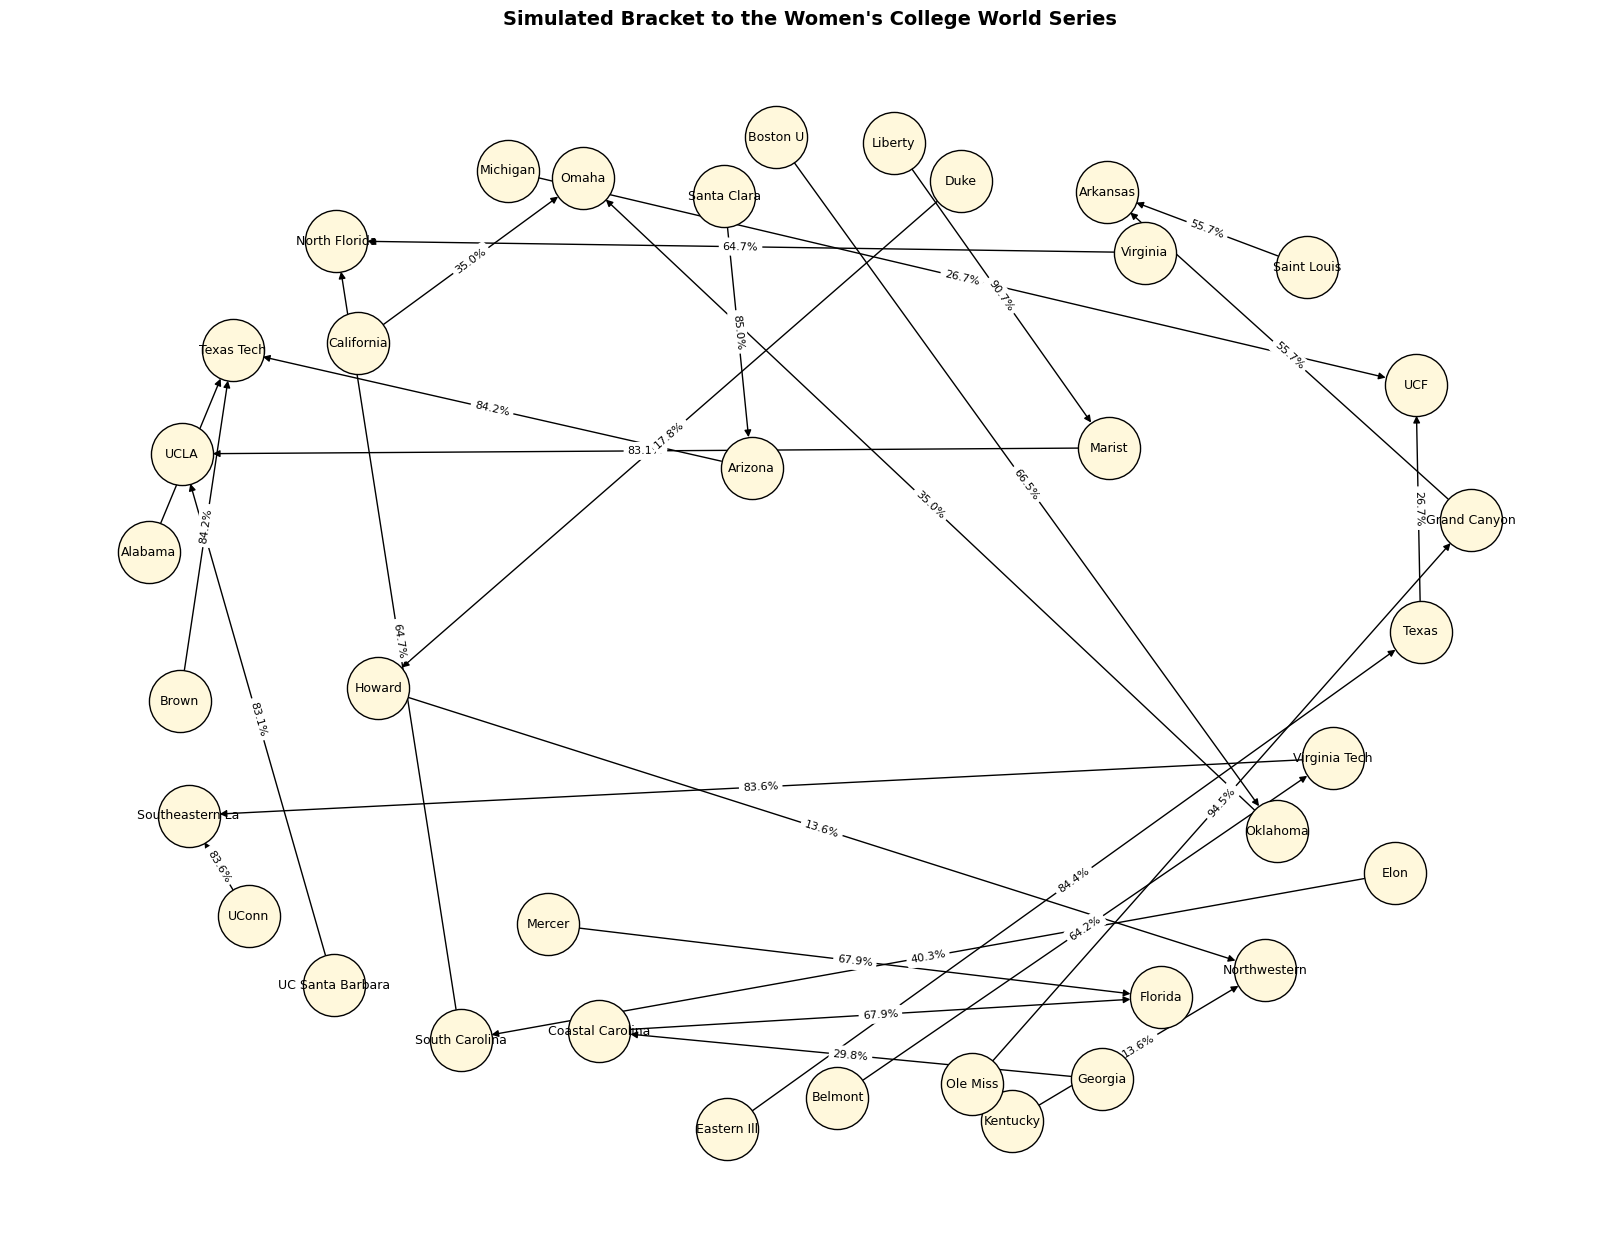
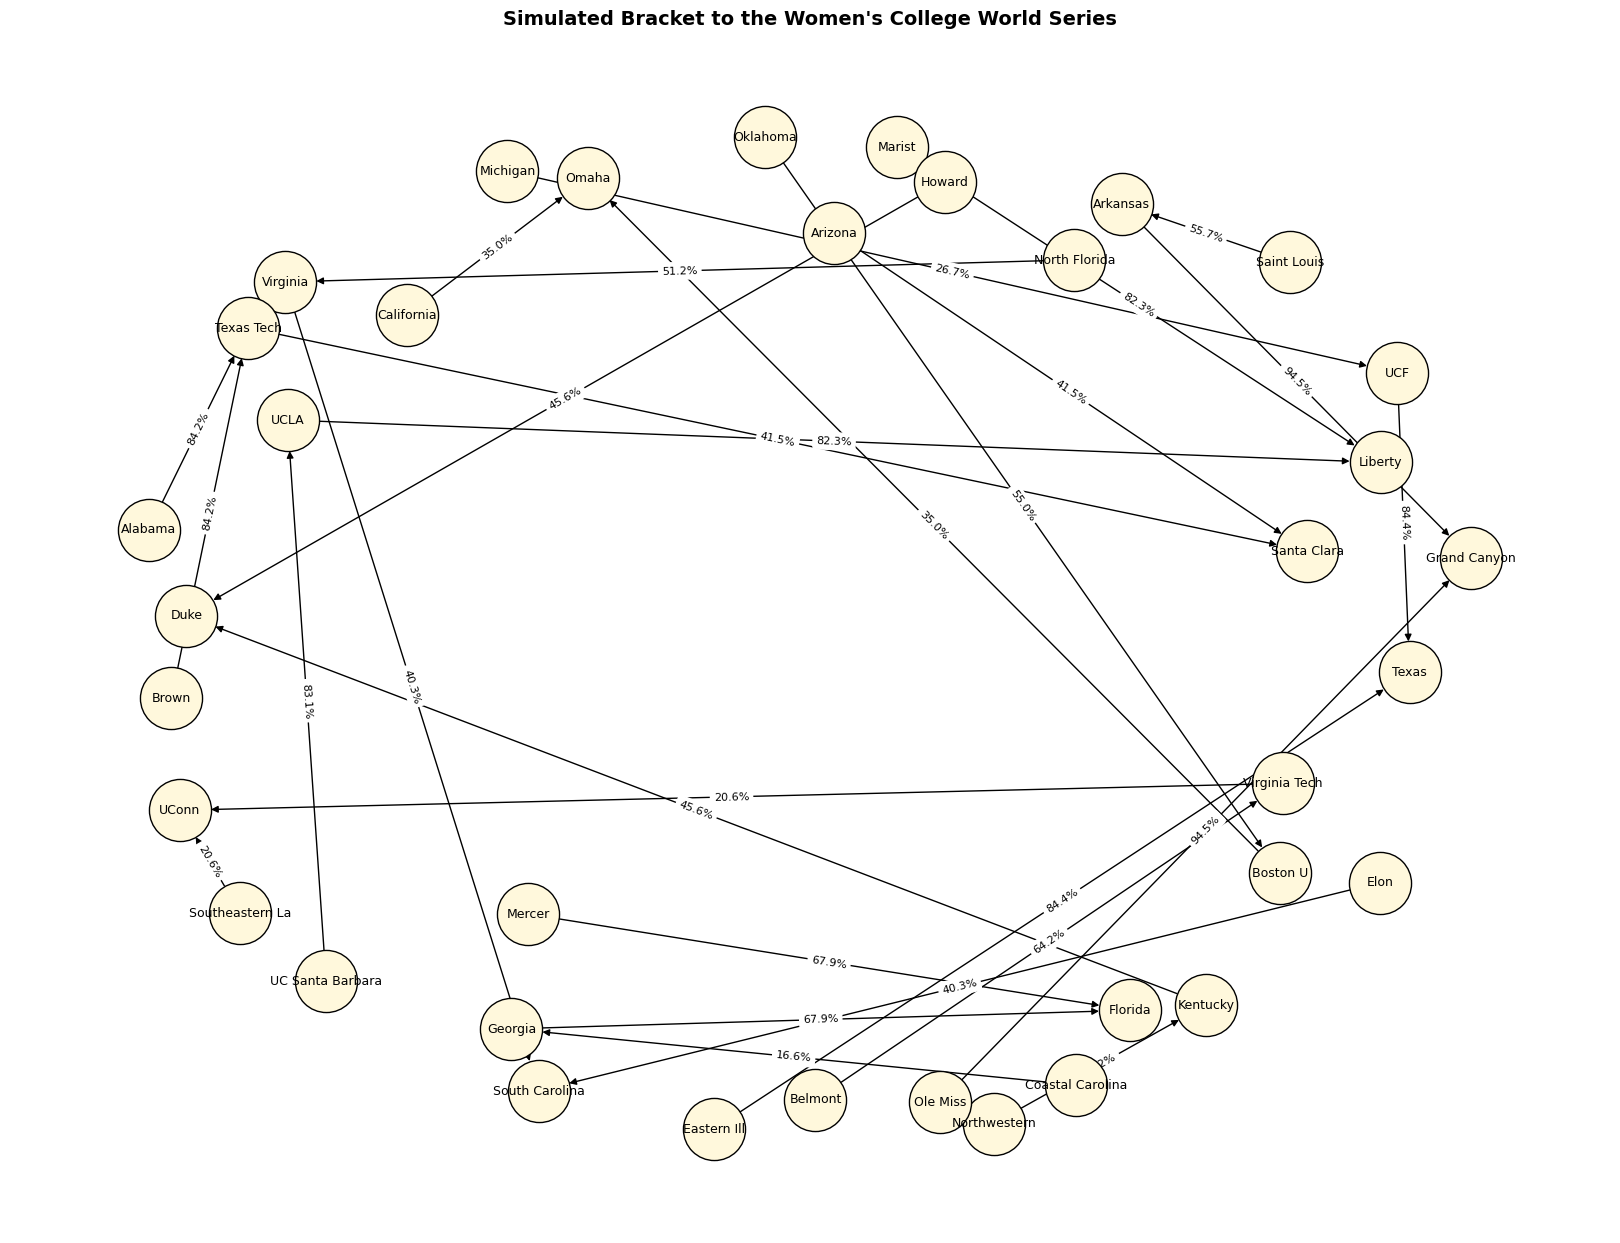
wcws

diff --git a/home/wcws.html b/home/wcws.html
@@ -559,6 +559,78 @@ window.Quarto = {
 </ul></li>
 </ul>
 <p>Now let’s build a <strong>logistic regression model</strong> using both BA and ERA to predict tournament inclusion.</p>
+</section>
+<section id="linear-vs-logistic-regression" class="level3">
+<h3 class="anchored" data-anchor-id="linear-vs-logistic-regression">Linear vs Logistic Regression</h3>
+<table width="100%" border="1" cellspacing="2" cellpadding="3" class="wc">
+<tbody>
+<tr class="wch">
+<td>
+<b>Linear Regression</b>
+</td>
+<td>
+<b>Logistic Regression</b>
+</td>
+</tr>
+<tr>
+<td>
+Used to predict the continuous dependent variable using a given set of independent variables.
+</td>
+<td>
+Used to predict the categorical dependent variable using a given set of independent variables.
+</td>
+</tr>
+<tr>
+<td>
+The outputs produced must be a continuous value, such as price and age.
+</td>
+<td>
+The outputs produced must be Categorical values such as 0 or 1, Yes or No.
+</td>
+</tr>
+<tr>
+<td>
+The relationship between the dependent variable and independent variable must be linear.
+</td>
+<td>
+The relationship DOES NOT need to be linear between the dependent and independent variables.
+</td>
+</tr>
+<tr>
+<td>
+Used for solving Regression problems.
+</td>
+<td>
+Used for solving Classification problems.
+</td>
+</tr>
+<tr>
+<td>
+We are finding and using the line of best fit to help us easily predict outputs.
+</td>
+<td>
+We are using the S-curve (Sigmoid) to help us classify predicted outputs.
+</td>
+</tr>
+<tr>
+<td>
+Least square estimation method is used for the estimation of accuracy.
+</td>
+<td>
+Maximum likelihood estimation method is used for the estimation of accuracy.
+</td>
+</tr>
+<tr>
+<td>
+There is a possibility of collinearity between the independent variables.
+</td>
+<td>
+There should not be any collinearity between the independent variable.
+</td>
+</tr>
+</tbody>
+</table>
+<p><img src="../../img/line_v_log.png"></p>
 <div id="f983cae9-d3b5-4a54-b2b9-f1eabab7a591" class="cell" data-tags="[]" data-execution_count="5">
 <details class="code-fold">
 <summary>Code</summary>
@@ -585,7 +657,7 @@ window.Quarto = {
 =================================================================
 Model:              Logit            Method:           MLE       
 Dependent Variable: In_Tournament    Pseudo R-squared: 0.369     
-Date:               2025-05-15 12:39 AIC:              178.6787  
+Date:               2025-05-15 13:15 AIC:              178.6787  
 No. Observations:   300              BIC:              189.7900  
 Df Model:           2                Log-Likelihood:   -86.339   
 Df Residuals:       297              LL-Null:          -136.77   
@@ -949,25 +1021,25 @@ ERA      -1.2776     0.2677   -4.7727   0.0000    -1.8022   -0.7529
 <span id="cb16-51"><a href="#cb16-51" aria-hidden="true" tabindex="-1"></a>sim_wcws, round1_pairs[:<span class="dv">5</span>], super_pairs[:<span class="dv">5</span>]  <span class="co"># show WCWS teams and samples of earlier matchups</span></span></code><button title="Copy to Clipboard" class="code-copy-button"><i class="bi"></i></button></pre></div>
 </details>
 <div class="cell-output cell-output-display" data-execution_count="9">
-<pre><code>(['UCLA',
-  'North Florida',
+<pre><code>(['Liberty',
+  'South Carolina',
   'Florida',
-  'Northwestern',
-  'UCF',
-  'Texas Tech',
-  'Arkansas',
-  'Southeastern La',
+  'Duke',
+  'Texas',
+  'Santa Clara',
+  'Grand Canyon',
+  'UConn',
   'Omaha'],
- [('Marist', 'Liberty', 0.9073297967006272, 0.8229103812442102),
+ [('Liberty', 'Marist', 0.8229103812442102, 0.9073297967006272),
   ('UCLA', 'UC Santa Barbara', 0.8305608346459205, 0.13168878229957526),
-  ('North Florida', 'Virginia', 0.6470622969764526, 0.5119046884915049),
+  ('Virginia', 'North Florida', 0.5119046884915049, 0.6470622969764526),
   ('South Carolina', 'Elon', 0.4027682633338696, 0.1665500956572),
   ('Florida', 'Mercer', 0.6787536646867995, 0.14535952655464804)],
- [('UCLA', 'Marist', 0.8305608346459205, 0.9073297967006272),
-  ('North Florida', 'South Carolina', 0.6470622969764526, 0.4027682633338696),
-  ('Florida', 'Coastal Carolina', 0.6787536646867995, 0.2984797067639155),
-  ('Northwestern', 'Howard', 0.13571055196062007, 0.1778520230708455),
-  ('UCF', 'Texas', 0.2665612913383968, 0.8438190342751233)])</code></pre>
+ [('Liberty', 'UCLA', 0.8229103812442102, 0.8305608346459205),
+  ('South Carolina', 'Virginia', 0.4027682633338696, 0.5119046884915049),
+  ('Florida', 'Georgia', 0.6787536646867995, 0.1660507942651648),
+  ('Duke', 'Kentucky', 0.45617935715153257, 0.10189489159728324),
+  ('Texas', 'UCF', 0.8438190342751233, 0.2665612913383968)])</code></pre>
 </div>
 </div>
 </section>

diff --git a/home/ap_stats_summary.html b/home/ap_stats_summary.html
@@ -34,7 +34,9 @@ ul.task-list li input[type="checkbox"] {
 <script src="ap_stats_summary_files/libs/bootstrap/bootstrap.min.js"></script>
 <link href="ap_stats_summary_files/libs/bootstrap/bootstrap-icons.css" rel="stylesheet">
 <link href="ap_stats_summary_files/libs/bootstrap/bootstrap-c0367b04c37547644fece4185067e4a7.min.css" rel="stylesheet" append-hash="true" id="quarto-bootstrap" data-mode="light">
-
+<script src="../js/LaTeXMathML.js"></script>
+<script id="MathJax-script" async
+  src="https://cdn.jsdelivr.net/npm/mathjax@3/es5/tex-mml-chtml.js"></script>
 
 </head>
 
@@ -109,7 +111,7 @@ ul.task-list li input[type="checkbox"] {
 <section id="sampling-distributions" class="level3">
 <h3 class="anchored" data-anchor-id="sampling-distributions"><strong>5. Sampling Distributions</strong></h3>
 <ul>
-<li><strong>What it’s about:</strong> Distribution of sample statistics (like ${x}$ or $$), central limit theorem, and variability from sample to sample.</li>
+<li><strong>What it’s about:</strong> Distribution of sample statistics (like $\bar{x}$ or $\hat{p}$), central limit theorem, and variability from sample to sample.</li>
 <li><strong>Connection to Unit 4:</strong> Takes the abstract idea of random variables and applies it to statistics from samples.</li>
 <li><strong>Leads to:</strong> Shows why we can trust a sample to estimate a population — foundational for confidence intervals and hypothesis testing.</li>
 </ul>
@@ -246,7 +248,7 @@ ul.task-list li input[type="checkbox"] {
 <h3 class="anchored" data-anchor-id="inference-for-categorical-data-chi-square-tests-1"><strong>8. Inference for Categorical Data: Chi-Square Tests</strong></h3>
 <ul>
 <li><strong>Action:</strong> You categorize students into three groups (slept more, same, less than usual) and compare across schools.</li>
-<li><strong>Test:</strong> $^2$ test for homogeneity of proportions.</li>
+<li><strong>Test:</strong> $\chi^2$ test for homogeneity of proportions.</li>
 <li><strong>Insight:</strong> You find differences are statistically significant — school culture may impact recovery sleep.</li>
 </ul>
 <hr>

diff --git a/frq/index.html b/frq/index.html
@@ -19,11 +19,11 @@
     <script src="../js/jquery-ui.js"></script>
     <script src="../js/jStat.js"></script>
     <script src="../js/LaTeXMathML.js"></script>
+    <script id="MathJax-script" async
+      src="https://cdn.jsdelivr.net/npm/mathjax@3/es5/tex-mml-chtml.js"></script>
     <script src="../js/d3.v7.min.js"></script>
     <script type="module" src="../js/script.js"></script>
     <script type="module" src="../js/home.js"></script>
-    <script id="MathJax-script" async
-      src="https://cdn.jsdelivr.net/npm/mathjax@3/es5/tex-mml-chtml.js"></script>
     <style>
     img {
       max-width: 100%;

diff --git a/home/nash.html b/home/nash.html
@@ -79,7 +79,7 @@ ul.task-list li input[type="checkbox"] {
 <li><strong>Strategies</strong> (available choices)</li>
 <li><strong>Payoffs</strong> (rewards or losses based on combined actions)</li>
 </ul>
-<p><img src="../../img/game_theory.png"></p>
+<p><img src="../../img/game_theory.png" width="400px"></p>
 </section>
 <section id="where-game-theory-applies" class="level3">
 <h3 class="anchored" data-anchor-id="where-game-theory-applies">Where game theory applies:</h3>
